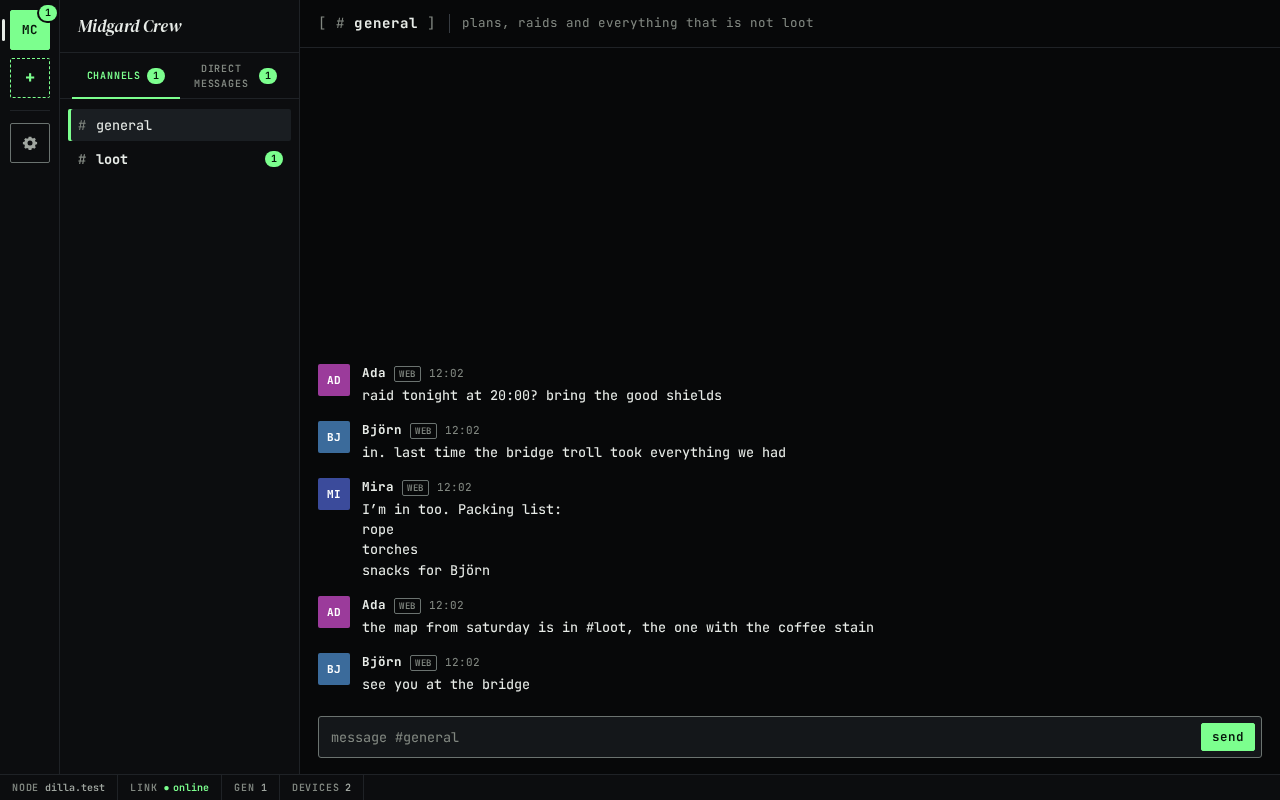
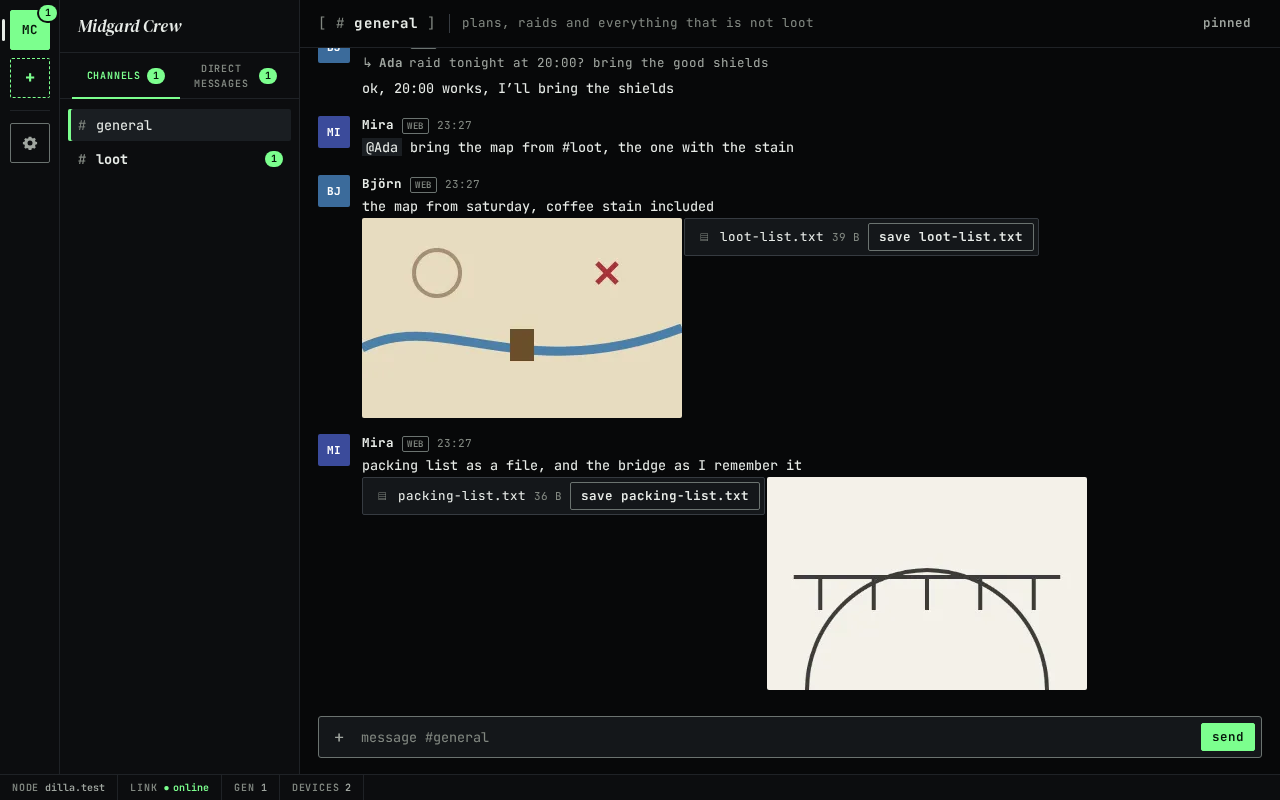
docs: web-2b in the user guide and README; re-shot screenshots
The guide gains Saying more (replies, reactions, edit, delete, pins, mentions, attachments), the limits lose the web-2a pins, the README summary follows, six conversation screenshots are new and the 19 existing names are re-shot.

Claude-Session: https://claude.ai/code/session_01XLFud8eoDaqf8uiZq5wjuP

diff --git a/docs/user/getting-started.md b/docs/user/getting-started.md
@@ -1,8 +1,9 @@
 # Getting started with the dilla web client
 
 This page is for a person who has been sent an invite to a dilla instance. It describes the web client
-as it is on 2026-10-07 ("web-2a"): signing up, using the account in a second browser, devices, channels,
-direct messages, badges and notifications, and what the client cannot do yet. Every quoted line is the text the screen shows;
+as it is on 2026-10-07 ("web-2b"): signing up, using the account in a second browser, devices, channels,
+direct messages, badges and notifications, saying more (edits, deletes, reactions, replies, pins, mentions,
+images and files), and what the client cannot do yet. Every quoted line is the text the screen shows;
 `{instance}` stands for the instance's address and `{username}` for yours.
 
 If you run the instance yourself, start with the [operator guide](../deploy/README.md).
@@ -323,18 +324,137 @@ are "direct messages and mentions", "every message" and "nothing". "Per channel"
 
 ![Notification permission before opt-in](screenshots/settings-notifications.png)
 
-## 9. Known limits (2026-10-07)
+## 9. Saying more
+
+A message can be edited, deleted, answered, reacted to and pinned, it can mention people, and it can carry images
+and files. This works the same in channels and in direct messages.
+
+### The message toolbar
+
+![Mira's view of #general: Björn's reply to Ada with its reply line and its toolbar react, reply and pin, and
+and, further up, Mira's packing list with the reactions thumbs up 2 and fire 1](screenshots/conversation-actions.png)
+
+Point at a message, or move to it with the keyboard, and its toolbar appears ("actions for this message"):
+**react**, **reply** and **pin** (**unpin** on a pinned message), and on your own messages also **edit** and
+**delete**. A change shows once it has gone through; until then the message says "saving…", and a change that
+could not be made says "not saved" with **retry** and **discard**.
+
+### Edit
+
+![Mira's packing list open for editing, with "escape to cancel · enter to save" under it](screenshots/conversation-edit.png)
+
+**edit** opens the message in place ("edit your message"); Arrow Up in an empty message field does the same for
+your last message. Enter saves, Shift+Enter starts a new line, Escape cancels ("escape to cancel · enter to save").
+An edited message shows "edited". Only the latest version is shown; there is no history of earlier ones. An edit
+never notifies anyone, even when it adds a mention. You can edit your messages from any of your browsers, and
+nobody else can edit them.
+
+### Delete for everyone
+
+**delete** asks first: "Delete this message?" "It is removed for everyone in this conversation, with its reactions
+and files. Copies someone already saved stay with them. This cannot be undone." **Delete** removes the message
+from every device in the conversation, also from devices that come online later, and the instance deletes its copy
+of the message and the message's files. Where the message was, the conversation shows "message deleted". A delete
+cannot reach a copy that someone saved or a screenshot someone took. Only the author can delete a message; there is
+no moderator delete in this version. If the browser you deleted from leaves the conversation before it has asked
+the instance to delete its copy, the instance keeps that copy until the browser rejoins or the instance's
+retention removes it.
+
+### Replies
+
+**reply** puts "replying to {name}" and the start of that message above the message field; **cancel reply** or
+Escape takes it away. The reply is shown with a line that names the original's author and its first words.
+Selecting that line ("go to the original message") scrolls to the original and highlights it for a moment (with
+reduced motion, an outline instead of the animation). When the original is further back than what is loaded:
+"The original message is further back. Load earlier messages to reach it." When this browser never had it or
+cannot read it: "the original message cannot be shown here". When it was deleted: "the original message was
+deleted".
+
+### Reactions
+
+**react**, or **add a reaction** under a message that already has reactions, opens "pick a reaction": 32 emoji in
+a grid. The arrow keys move, Enter picks, Escape closes. Each reaction shows its emoji and how many people chose
+it; yours is highlighted, and selecting it again takes yours back. Each person counts once per emoji, whichever of
+their browsers they use.
+
+### Pins
+
+![The dialog "Pinned in #general" with Mira's packing list, "pinned by Ada", and the buttons go to message and
+unpin](screenshots/conversation-pins.png)
+
+**pin** pins a message for everyone in the conversation, and it shows "pinned". **pinned** in the channel header
+opens "Pinned in #{channel}" ("Pinned with {name}" in a direct message): each pinned message with its author, its
+time, its first words and "pinned by {name}", with **go to message** and **unpin**. With nothing pinned it says
+"Nothing is pinned here yet." In this version anyone in the conversation can pin and unpin any message; the list
+says who pinned each one.
+
+### Mentions
+
+![The message field with "@ad" typed and the list "people to mention" offering Ada](screenshots/conversation-mention.png)
+
+Type `@` and the first letters of someone's username or display name: the list ("people to mention") offers up to
+eight members who match and, in a channel, "everyone in this channel". Arrow Up and Arrow Down move, Enter or Tab
+picks, Escape closes the list. Typing a member's whole `@username` works too. The message carries the person, not
+the text you typed, so it always shows their current name. A message that mentions you is marked, counts in the
+mention badge and notifies you as your notification settings say (section 8). `@everyone` mentions everyone in the
+channel; typing `@here` does the same (the client does not know who is online, so it offers no separate entry);
+direct messages offer neither. A mention of a role shows as "@role" and counts as a mention of you once this browser has loaded the
+server's member list.
+
+### Images and files
+
+![Björn's message with the image card of saturday-map.png and the file card of loot-list.txt, and under it the
+list "files to send" with packing-list.txt and bridge-sketch.png, both ready](screenshots/conversation-attachments.png)
+
+**attach files** next to the message field, dropping files on the conversation ("Drop to attach", "Up to 4 files,
+25 MB each.") or pasting them into the message field adds them to "files to send". Each file goes through
+"reading", "preparing", "uploading" and "ready", or shows "failed ({code})"; **remove {name}** takes it off the
+list. A message carries at most four files ("A message carries at most 4 files."), each at most 25 MB
+(26,214,400 bytes) in a browser ("{name} is over 25 MB and cannot be sent from a browser."). The message goes when
+every file is ready ("Wait until every file is ready, or remove it."), with or without text. Files are uploaded
+as soon as you add them and become part of the conversation only when the message is sent; a file that is never
+sent is removed by the instance after a while (after 24 hours, unless the instance is set otherwise). If a file
+you attached is no longer on the server when the message is sent (an upload left for more than a day), the
+message says so and offers only discard; attach the file again.
+
+PNG, JPEG, WebP and GIF images show as a small preview made by the sender's browser ("open {name}"). Every other
+file, audio, video and SVG included, shows as a card with its name, its size and **save**.
+
+![saturday-map.png open full size, with Save and Close](screenshots/conversation-lightbox.png)
+
+Opening an image shows it full size: **previous image** and **next image** (Arrow Left and Arrow Right) move
+between the images of the same message, **Save** saves it, **Close** or Escape closes it. A received file over
+25 MB shows "too large to open in a browser"; one that could not be opened shows "could not open ({code})". The
+browser downloads a file each time you open or save it and keeps no copy of opened files; the small previews come
+with the message. When a message with files is deleted, its files are deleted from the instance too.
+
+### Keys in the conversation
+
+| Key | What it does |
+|---|---|
+| Arrow Up, Arrow Down | In the messages: move to the previous or next message; the toolbar of that message appears |
+| Home, End | In the messages: the first or last loaded message |
+| Tab | From a message: its toolbar, its reply line, its files and its reactions, in that order |
+| Arrow Left, Arrow Right | In a toolbar or in the reactions: the previous or next button. In a full-size image: the previous or next image |
+| Escape | In a toolbar, the reactions or a file: back to the message. On a message: to the message field. In the message field: closes the mention list, or else cancels the reply |
+| Arrow Up | In an empty message field: edits your last message |
+| Enter, Shift+Enter, Escape | While editing: save, new line, cancel |
+
+## 10. Known limits (2026-10-07)
 
 - No native phone or desktop app. A second browser needs the recovery key and the password (and the code,
-  for an account with a second factor). Pins are local to one browser; a new browser does not get messages
-  from before it joined. Devices have no names, and the password cannot be changed from the web client.
+  for an account with a second factor). A new browser does not get messages from before it joined. Devices have
+  no names, and the password cannot be changed from the web client.
 - No server, channel or invite can be created from the web client, and there are no roles, permissions or
   profile screens. A server invite has to come from someone who can make one through
   the instance's API, or from the host (`dillad admin invite create`).
 - Text channels and DMs only. No voice, camera or screen share (the server and the media layer support
   encrypted calls; the web client has no call screens yet).
-- Plain text only. No edits, deletes, reactions, replies, threads, mentions, attachments, link previews,
-  markdown or emoji picker.
+- No threads, link previews, markdown, custom emoji or emoji in the message text; reactions use a fixed set of 32.
+  Only the latest version of an edited message is shown. A browser sends and opens files of at most 25 MB, and
+  plays no audio or video (such files are saved). Received link previews are not shown.
+- Who may pin, unpin or mention everyone is not checked yet: anyone in a conversation can. The pins list names who
+  pinned each message. Only the author can delete a message.
 - No search, typing or presence. Notifications require an open tab and browser permission.
 - Messages from before this browser joined a channel are not shown.
 - No safety numbers and no device verification. The name on a message is the device that encrypted it, as
@@ -348,8 +468,9 @@ are "direct messages and mentions", "every message" and "nothing". "Per channel"
 ## Re-shooting these screenshots
 
 The screenshots are real: `e2e/scripts/shoot-docs.mjs` starts a `dilla-testhost` that serves the built
-client, creates the server "Midgard Crew", signs ada, björn and mira up in three Chromium profiles, signs
-mira into a fourth (recovery key, then username and password), and photographs the flows. Every name and
+client, creates the server "Midgard Crew", signs ada, björn and mira up in three Chromium profiles, lets them
+reply, react, edit, pin, mention and share images and files in #general, signs mira into a fourth (recovery
+key, then username and password), and photographs the flows. Every name and
 message is made up, and the accounts are deleted with the test host. The account has no second factor, so
 step 3 of the sign-in has no screenshot, and the two warnings of sections 6 and 7 that need a second
 sign-in at the same moment or foreign recovery data are quoted, not shown. To re-shoot them (not part of CI):
@@ -362,3 +483,6 @@ GO=/path/to/go npm run docs:shots -w @dilla/e2e
 It needs `internal/mlswasi/testdata/dilla_core_wasi.wasm` and Playwright's Chromium, uses
 127.0.0.1:8471 and 8472 (`node e2e/scripts/shoot-docs.mjs --port P --control C` picks others) and writes
 `docs/user/screenshots/*.png`.
+
+Chromium keeps sockets in its profile directories, so the script needs a short temporary directory: when
+`TMPDIR` is a long path, run it with `TMPDIR=/tmp`.

diff --git a/README.md b/README.md
@@ -22,24 +22,26 @@ As of 2026-10-07.
 |---|---|
 | The server, `dillad` | Accounts and devices, servers (communities in the API), text channels, DMs, roles, permissions and channel overwrites, kicks and bans, invites, attachments (blobs), reports, encrypted backup objects; `dillad init`, `serve`, `doctor`, `backup`, `restore` and `admin`; TLS by ACME (TLS-ALPN, DNS or IP) or behind a proxy. Container image, systemd unit and Proxmox helper: see the [operator guide](docs/deploy/README.md). |
 | Encrypted calls, at the protocol and media level | Voice, camera and screen share through the in-process LiveKit SFU and TURN relay, with every media frame encrypted end to end (SFrame keys from MLS), driven by the browser package `packages/media` and tested in Chromium and Firefox. The web client has no call screens yet. |
-| The web client ("web-2a") | Served by `dillad` from its own address. Sign up with an invite, then use the account in a second browser: the recovery key first, then username and password, then the second-factor code if the account has one. Read and send text in channels and DMs; DMs stay reachable with no server or when a server did not load. Unread and mention badges appear in the channel list, the sidebar tabs and the server rail. Settings → Devices lists every browser and removes one with the recovery key, signs this browser out and removes it, or forgets it; it works at phone width and high zoom. A persistent warning shows when the instance holds recovery data that is not this account's, and a sign-in that another sign-in pushed out says so. Desktop notifications require opt-in and an open tab. Messages sent before a new browser joins are not shown there. One tab at a time per browser. Tested in Chromium and Firefox, and in WebKit for sign-up and reload. See [Getting started](docs/user/getting-started.md). |
+| The web client ("web-2b") | Served by `dillad` from its own address. Sign up with an invite, then use the account in a second browser: the recovery key first, then username and password, then the second-factor code if the account has one. Read and send text in channels and DMs; DMs stay reachable with no server or when a server did not load. Edit and delete your own messages (a delete removes the message and its files for everyone), react with a set of 32 emoji, reply, pin messages for everyone in the conversation and mention people with `@`; attach images and files of up to 25 MB each, shown as previews or file cards and opened full size. Unread and mention badges appear in the channel list, the sidebar tabs and the server rail. Settings → Devices lists every browser and removes one with the recovery key, signs this browser out and removes it, or forgets it; it works at phone width and high zoom. A persistent warning shows when the instance holds recovery data that is not this account's, and a sign-in that another sign-in pushed out says so. Desktop notifications require opt-in and an open tab. Messages sent before a new browser joins are not shown there. One tab at a time per browser. Tested in Chromium and Firefox, and in WebKit for sign-up and reload. See [Getting started](docs/user/getting-started.md). |
 
 ![Step 3 of the sign-up: the recovery key, shown once](docs/user/screenshots/onboarding-3-recovery-key.png)
 
 ![Settings → Devices with two browsers of one account](docs/user/screenshots/settings-devices.png)
+
+![A conversation with a reply, reactions and the message toolbar](docs/user/screenshots/conversation-actions.png)
 
 ## What is not there yet
 
 As of 2026-10-07, in the web client:
 
 - A native app or phone client. The recovery key adds another browser with the account password; it does not
-  restore messages sent before that browser joined. Pins are not shared between browsers.
+  restore messages sent before that browser joined.
 - Changing the password, setting up a second factor, or naming devices in the web client. There is no
   dedicated operator command yet to reset an account's recovery data, which the recovery-data warning asks for.
 - Creating servers, channels and invites, or editing roles, permissions and profiles in the web client. A server
   is created through the HTTP API today.
 - Voice, camera and screen share in the web client.
-- Edits, deletes, reactions, replies, threads, mentions, attachments and link previews.
+- Threads, link previews, markdown and custom emoji; files over 25 MB from a browser; checks of who may pin or mention everyone (anyone in a conversation can, in this version).
 - Search, typing and presence. Desktop notifications stop when every tab is closed.
 - Safety numbers and device verification.
 - More than one open tab per browser (a second tab waits for the first).
@@ -55,7 +57,8 @@ helper, the TLS modes, the TURN relay and LiveKit settings, and backup and resto
 ## Use it
 
 [Getting started](docs/user/getting-started.md) is for a person with an invite: the sign-up, what the
-browser keeps, the app and its keyboard, and the known limits.
+browser keeps, the app and its keyboard, saying more (edits, reactions, replies,
+pins, mentions, images and files), and the known limits.
 
 ![The app at phone width](docs/user/screenshots/shell-phone.png)
 
